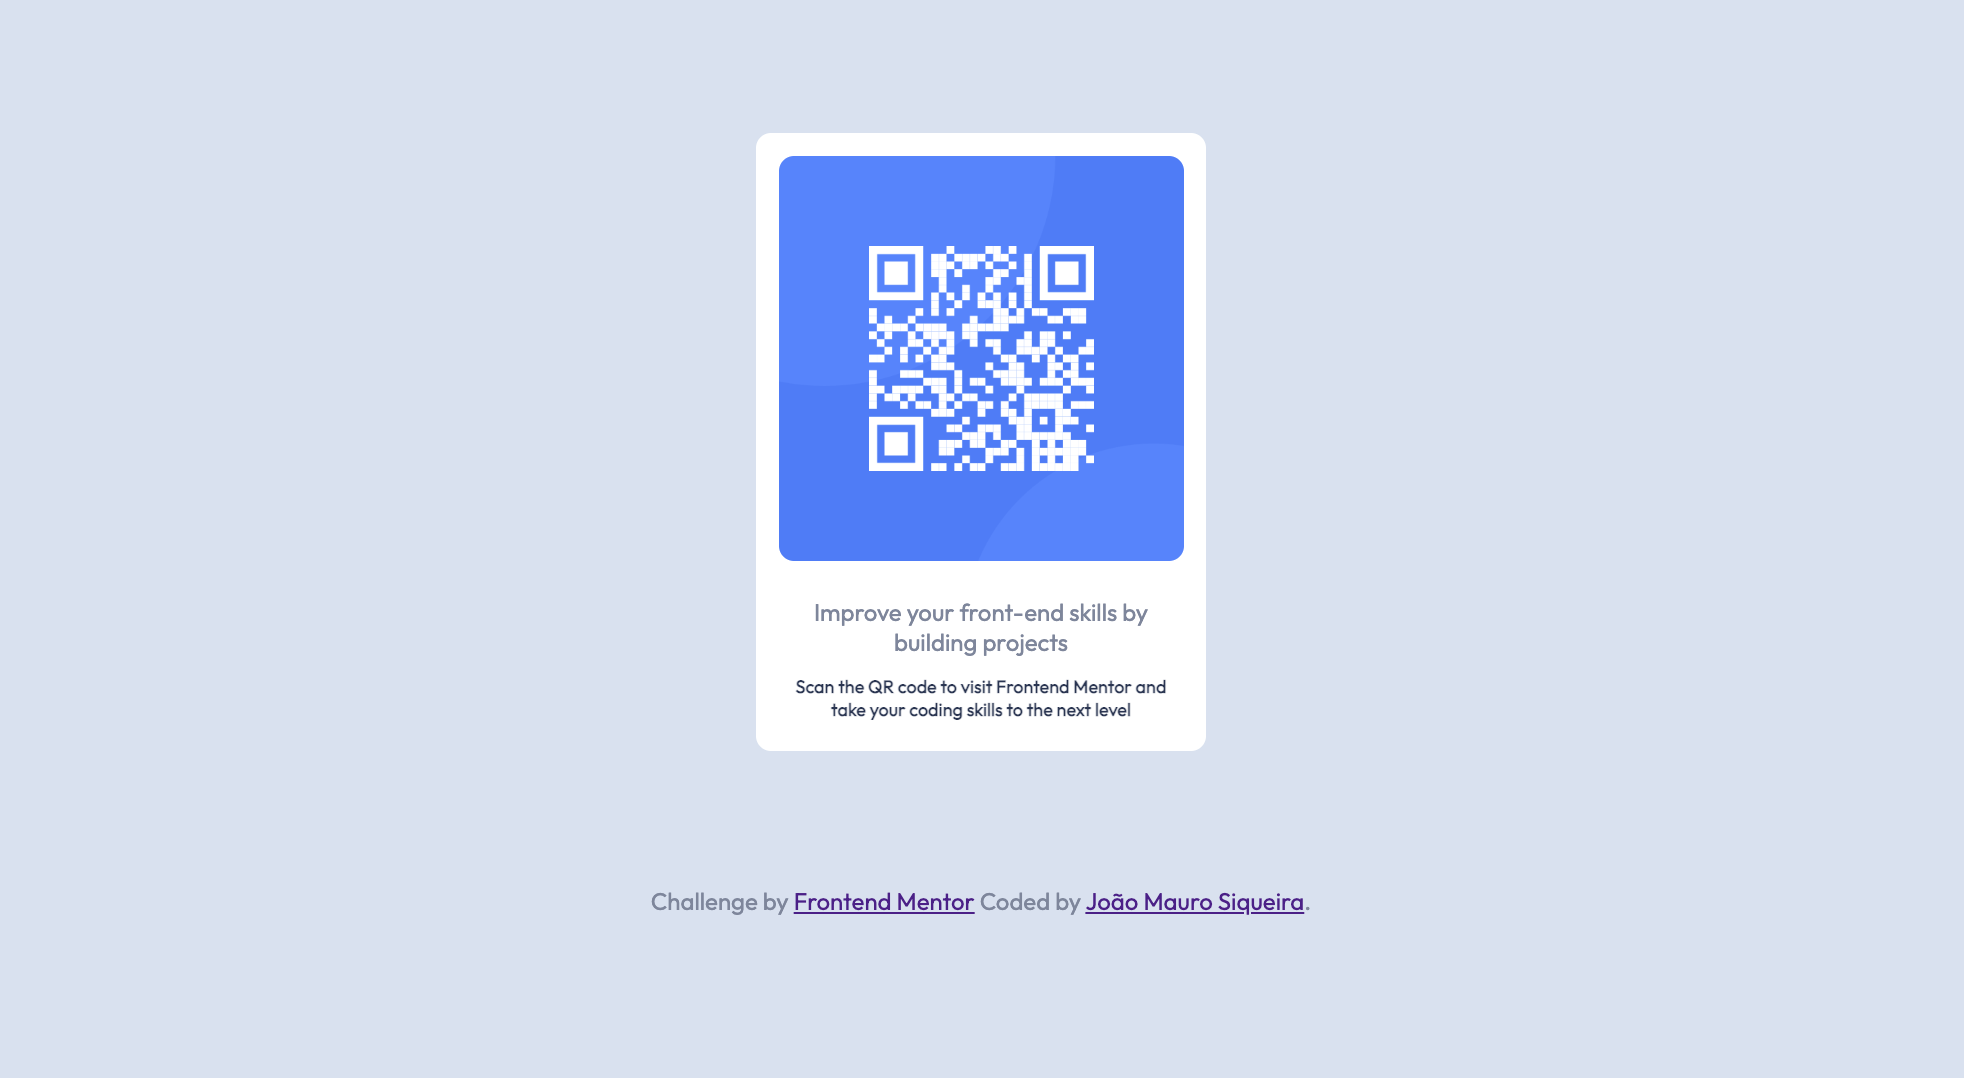
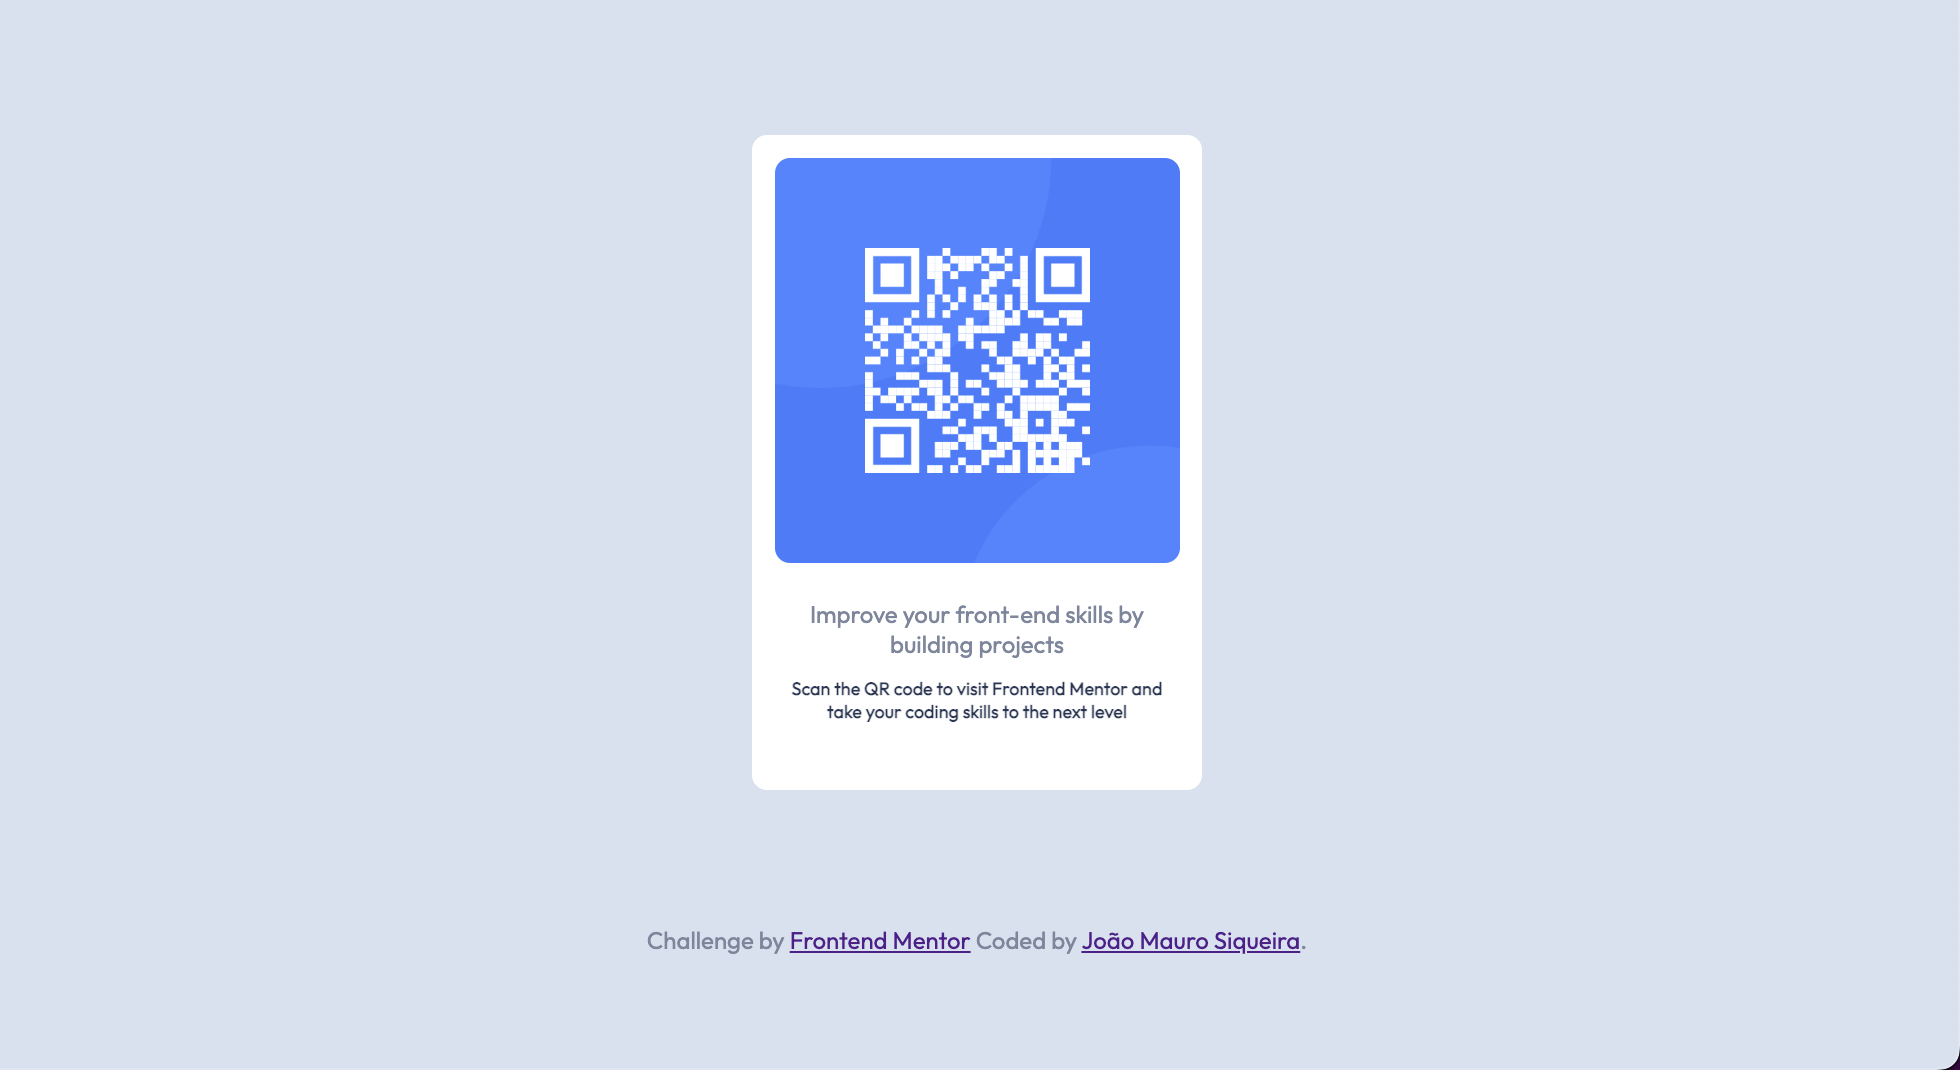
screenshot updated

diff --git a/styles.css b/styles.css
@@ -31,7 +31,7 @@
   .qr-code-background {
     position: relative;
     background-color: white;
-    padding: 15px;
+    padding: 15px 15px 40px 15px;
     border-radius: 10px;
   }
   
